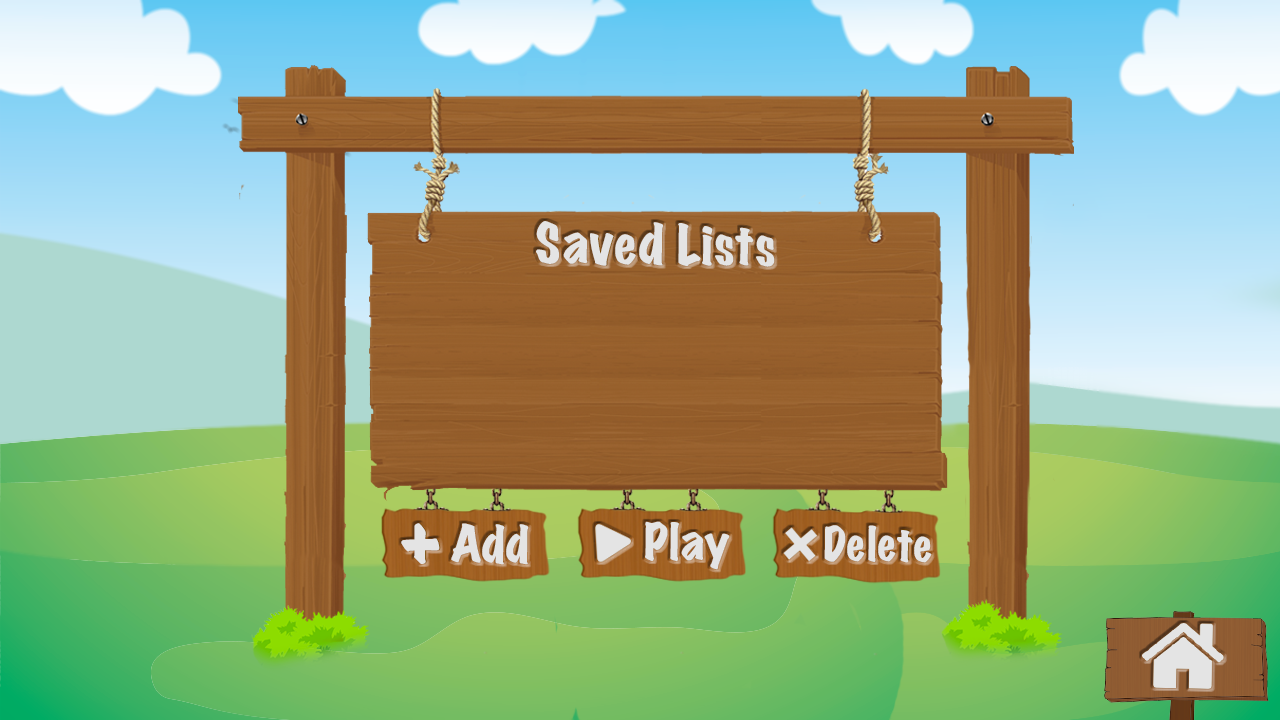
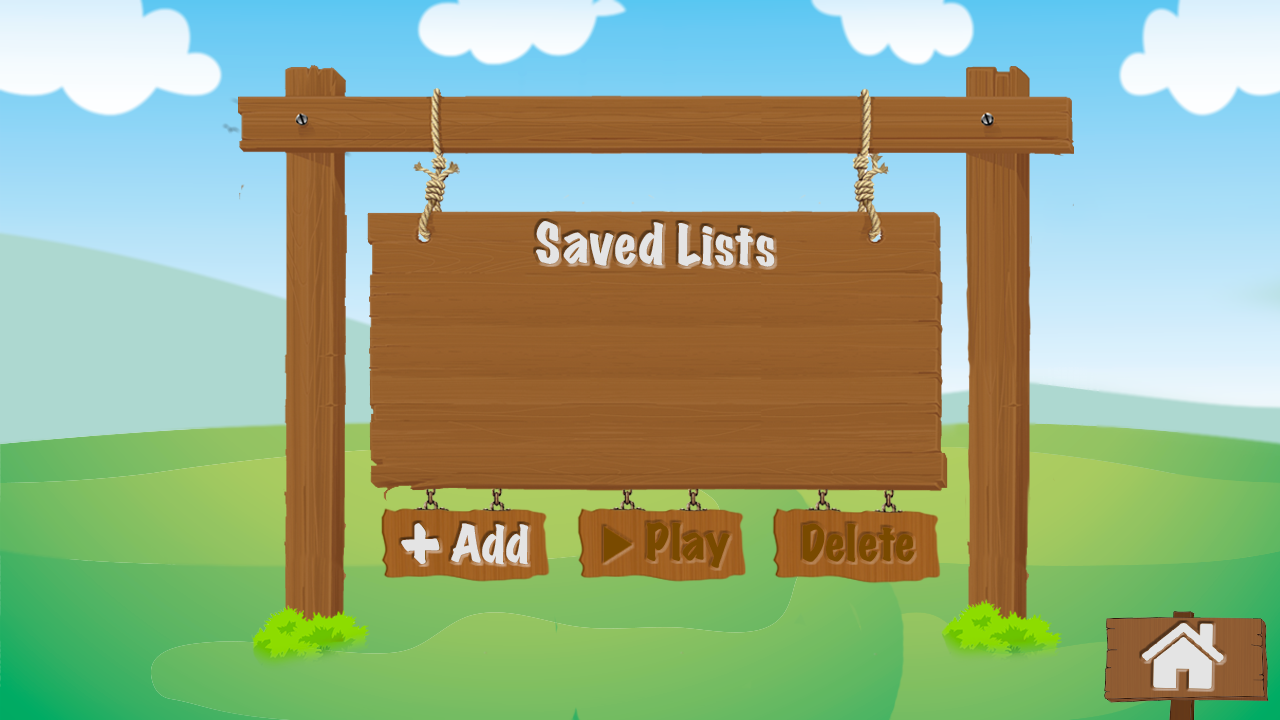
disabled property for buttons syncing with labels

Changed region(s): [[0.4375, 0.7028, 0.75, 0.7944]]

diff --git a/resources/stylesheets/AreYouSurePopupStyle.css b/resources/stylesheets/AreYouSurePopupStyle.css
@@ -1,0 +1,16 @@
+AnchorPane {
+    -fx-background-image:url('../images/AreYouSurePopup.png');
+}
+
+
+Button {
+    -fx-background-color: Transparent;
+    -fx-background-radius: 22;
+    -fx-border-color: Transparent;
+    -fx-border-width: 2;
+    -fx-border-radius: 22;
+}
+
+Button:hover {
+    -fx-border-color: #e4e4e4;
+}

diff --git a/resources/stylesheets/SkipPopupStyle.css b/resources/stylesheets/SkipPopupStyle.css
@@ -1,0 +1,16 @@
+AnchorPane {
+    -fx-background-image:url('../images/SkipPopup.png');
+}
+
+
+Button {
+    -fx-background-color: Transparent;
+    -fx-background-radius: 22;
+    -fx-border-color: Transparent;
+    -fx-border-width: 2;
+    -fx-border-radius: 22;
+}
+
+Button:hover {
+    -fx-border-color: #e4e4e4;
+}

diff --git a/resources/stylesheets/MainContainerStyle.css b/resources/stylesheets/MainContainerStyle.css
@@ -7,5 +7,3 @@
     opacity: 0.9
 }
 
-
-}

diff --git a/src/controller/QuestionViewController.java b/src/controller/QuestionViewController.java
@@ -1,5 +1,6 @@
 package controller;
 
+import de.jensd.fx.glyphs.materialdesignicons.MaterialDesignIconView;
 import javafx.concurrent.Task;
 import javafx.concurrent.WorkerStateEvent;
 import javafx.fxml.FXML;
@@ -50,9 +51,21 @@ public class QuestionViewController extends AbstractController implements Initia
     @FXML
     Button skipQuestionBtn;
     @FXML
+    Button menuBtn;
+    @FXML
     Label scoreLbl;
     @FXML
     Label attemptLbl;
+    @FXML
+    Label recordLbl;
+    @FXML
+    Label skipLbl;
+    @FXML
+    MaterialDesignIconView recordIcon;
+    @FXML
+    MaterialDesignIconView skipIcon;
+    @FXML
+    MaterialDesignIconView homeIcon;
 
     @Override
     public void initialize(URL location, ResourceBundle resources) {
@@ -74,9 +87,13 @@ public class QuestionViewController extends AbstractController implements Initia
             _questionMap = _pracModel.getCurrentQuestionMap();
             _answerMap = _pracModel.getCurrentAnswerMap();
         }
-        numberLbl.setText(_questionMap.get(_iteration));
 
-        //setFonts(numberLbl, 76, scoreLbl, 34, attemptLbl, 34, new Label(), 1, 3);
+        numberLbl.setText(_questionMap.get(_iteration));
+        recordLbl.visibleProperty().bind(recordBtn.disabledProperty().not());
+        skipLbl.visibleProperty().bind(skipQuestionBtn.disabledProperty().not());
+        recordIcon.visibleProperty().bind(recordBtn.disabledProperty().not());
+        skipIcon.visibleProperty().bind(skipQuestionBtn.disabledProperty().not());
+
     }
 
     // Returns to main menu when button is pressed.
@@ -105,6 +122,7 @@ public class QuestionViewController extends AbstractController implements Initia
 
     // Carries out calls to skip the current questions and move onto next
     public void skipQuestion() {
+        /*
         Alert alert = new Alert(Alert.AlertType.CONFIRMATION);
         alert.setTitle("Are you sure?");
         alert.setContentText("Are you sure you want to skip the current question?");
@@ -125,6 +143,13 @@ public class QuestionViewController extends AbstractController implements Initia
                 //NEEDS LOGIC FOR NEXT ITERATION
             }
 
+        } */
+        FXMLLoader loader = new FXMLLoader(getClass().getResource(File.separator + "view" + File.separator + "SkipPopup.fxml"));
+        loader.setController(new SkipPopupController(_iteration, _numQuestions, _score, this));
+        try {
+            pushPopup(new Scene(loader.load()), true);
+        } catch (IOException e) {
+            e.printStackTrace();
         }
     }
 
@@ -263,7 +288,7 @@ public class QuestionViewController extends AbstractController implements Initia
         }
     }
 
-    private void nextQuestion() {
+    protected void nextQuestion() {
         _iteration+=1;
         _modeDirector.setIteration(_iteration);
         numberLbl.setText(_questionMap.get(_iteration));
@@ -271,7 +296,7 @@ public class QuestionViewController extends AbstractController implements Initia
         _attempt = 1;
     }
 
-    private void resetBtns() {
+    protected void resetBtns() {
         if (_attempt > 2) {
             nextQuestion();
         }
@@ -283,9 +308,12 @@ public class QuestionViewController extends AbstractController implements Initia
     }
 
     public void mainMenu() {
-        pushChild("MenuView");
+        try {
+            pushPopup(new Scene(FXMLLoader.load(getClass().getResource(File.separator + "view" + File.separator + "AreYouSurePopup.fxml"))), true);
+        } catch (IOException e) {
+            e.printStackTrace();
+        }
     }
-
 
     //Helper method to playback audio once they have finished recording
     private void playbackAudio() {

diff --git a/src/controller/CustomViewController.java b/src/controller/CustomViewController.java
@@ -1,14 +1,12 @@
 package controller;
 
 import com.sun.javafx.scene.control.skin.VirtualFlow;
+import de.jensd.fx.glyphs.materialdesignicons.MaterialDesignIconView;
 import javafx.fxml.FXML;
 import javafx.fxml.FXMLLoader;
 import javafx.fxml.Initializable;
 import javafx.scene.Scene;
-import javafx.scene.control.Button;
-import javafx.scene.control.Cell;
-import javafx.scene.control.ListCell;
-import javafx.scene.control.ListView;
+import javafx.scene.control.*;
 import javafx.scene.text.Font;
 import model.CustomCollection;
 import model.ModeDirector;
@@ -30,13 +28,23 @@ public class CustomViewController extends AbstractController implements Initiali
     Button playBtn;
     @FXML
     Button deleteBtn;
+    @FXML
+    Label playLbl;
+    @FXML
+    Label deleteLbl;
+    @FXML
+    MaterialDesignIconView playIcon;
 
     public void addQuestions() {
         pushChild("CustomAddView");
     }
 
     public void mainMenu() {
-        pushChild("MenuView");
+        try {
+            pushPopup(new Scene(FXMLLoader.load(getClass().getResource(File.separator + "view" + File.separator + "AreYouSurePopup.fxml"))), true);
+        } catch (IOException e) {
+            e.printStackTrace();
+        }
     }
 
     public void play() {
@@ -73,6 +81,9 @@ public class CustomViewController extends AbstractController implements Initiali
 
         playBtn.setDisable(true);
         deleteBtn.setDisable(true);
+        playLbl.visibleProperty().bind(playBtn.disabledProperty().not());
+        deleteLbl.visibleProperty().bind(deleteBtn.disabledProperty().not());
+        playIcon.visibleProperty().bind(playBtn.disabledProperty().not());
 
         customizeListView(listView);
     }

diff --git a/src/controller/WrongViewController.java b/src/controller/WrongViewController.java
@@ -3,11 +3,15 @@ package controller;
 import de.jensd.fx.glyphs.materialdesignicons.MaterialDesignIcon;
 import de.jensd.fx.glyphs.materialdesignicons.MaterialDesignIconView;
 import javafx.fxml.FXML;
+import javafx.fxml.FXMLLoader;
 import javafx.fxml.Initializable;
+import javafx.scene.Scene;
 import javafx.scene.control.Button;
 import javafx.scene.control.Label;
 import model.ModeDirector;
 
+import java.io.File;
+import java.io.IOException;
 import java.net.URL;
 import java.util.ResourceBundle;
 
@@ -41,7 +45,11 @@ public class WrongViewController extends AbstractController implements Initializ
     }
 
     public void mainMenu() {
-        pushChild("MenuView");
+        try {
+            pushPopup(new Scene(FXMLLoader.load(getClass().getResource(File.separator + "view" + File.separator + "AreYouSurePopup.fxml"))), true);
+        } catch (IOException e) {
+            e.printStackTrace();
+        }
     }
 
     @Override

diff --git a/src/controller/SkipPopupController.java b/src/controller/SkipPopupController.java
@@ -1,0 +1,33 @@
+package controller;
+
+import model.ModeDirector;
+
+public class SkipPopupController extends AbstractController  {
+    private static ModeDirector _modeDirector = ModeDirector.instance();
+    private static QuestionViewController _qvc;
+    private int _iteration;
+    private int _numQuestions;
+    private int _score;
+
+    public SkipPopupController(int iteration, int numQuestions, int score, QuestionViewController qvc) {
+        _iteration = iteration;
+        _numQuestions = numQuestions;
+        _score = score;
+        _qvc = qvc;
+    }
+
+    public void skip() {
+        if (_iteration > _numQuestions) {
+            _modeDirector.updateStats(_score, _iteration);
+            pushChild("SummaryView");
+        } else {
+            _qvc.nextQuestion();
+            _qvc.resetBtns();
+        }
+        closePopup();
+    }
+
+    public void cancel() {
+        closePopup();
+    }
+}

diff --git a/src/controller/CorrectViewController.java b/src/controller/CorrectViewController.java
@@ -3,11 +3,15 @@ package controller;
 
 import de.jensd.fx.glyphs.materialdesignicons.MaterialDesignIconView;
 import javafx.fxml.FXML;
+import javafx.fxml.FXMLLoader;
 import javafx.fxml.Initializable;
+import javafx.scene.Scene;
 import javafx.scene.control.Button;
 import javafx.scene.control.Label;
 import model.ModeDirector;
 
+import java.io.File;
+import java.io.IOException;
 import java.net.URL;
 import java.util.ResourceBundle;
 
@@ -35,7 +39,11 @@ public class CorrectViewController extends AbstractController implements Initial
     }
 
     public void mainMenu() {
-        pushChild("MenuView");
+        try {
+            pushPopup(new Scene(FXMLLoader.load(getClass().getResource(File.separator + "view" + File.separator + "AreYouSurePopup.fxml"))), true);
+        } catch (IOException e) {
+            e.printStackTrace();
+        }
     }
 
     @Override

diff --git a/src/controller/PracticeViewController.java b/src/controller/PracticeViewController.java
@@ -1,10 +1,14 @@
 package controller;
 
+import javafx.fxml.FXMLLoader;
 import javafx.fxml.Initializable;
+import javafx.scene.Scene;
 import model.ModeDirector;
 import model.NumberCollection;
 import model.PracticeCollection;
 
+import java.io.File;
+import java.io.IOException;
 import java.net.URL;
 import java.util.ResourceBundle;
 
@@ -28,9 +32,12 @@ public class PracticeViewController extends AbstractController implements Initia
     }
 
     public void mainMenu() {
-        pushChild("MenuView");
+        try {
+            pushPopup(new Scene(FXMLLoader.load(getClass().getResource(File.separator + "view" + File.separator + "AreYouSurePopup.fxml"))), true);
+        } catch (IOException e) {
+            e.printStackTrace();
+        }
     }
-
 
     @Override
     public void initialize(URL location, ResourceBundle resources) {

diff --git a/src/controller/MathViewController.java b/src/controller/MathViewController.java
@@ -1,8 +1,13 @@
 package controller;
 
+import javafx.fxml.FXMLLoader;
+import javafx.scene.Scene;
 import model.MathsCollection;
 import model.ModeDirector;
 import model.NumberCollection;
+
+import java.io.File;
+import java.io.IOException;
 
 public class MathViewController extends AbstractController{
     private static ModeDirector _modeDirector = ModeDirector.instance();
@@ -50,7 +55,11 @@ public class MathViewController extends AbstractController{
     }
 
     public void mainMenu() {
-        pushChild("MenuView");
+        try {
+            pushPopup(new Scene(FXMLLoader.load(getClass().getResource(File.separator + "view" + File.separator + "AreYouSurePopup.fxml"))), true);
+        } catch (IOException e) {
+            e.printStackTrace();
+        }
     }
 
     public void stats() {

diff --git a/src/controller/CustomAddViewController.java b/src/controller/CustomAddViewController.java
@@ -360,7 +360,11 @@ public class CustomAddViewController extends AbstractController implements Initi
     }
 
     public void mainMenu() {
-        pushChild("MenuView");
+        try {
+            pushPopup(new Scene(FXMLLoader.load(getClass().getResource(File.separator + "view" + File.separator + "AreYouSurePopup.fxml"))), true);
+        } catch (IOException e) {
+            e.printStackTrace();
+        }
     }
 
     private void numberBtnCtrl(boolean option) {

diff --git a/src/controller/AreYouSurePopupController.java b/src/controller/AreYouSurePopupController.java
@@ -1,0 +1,16 @@
+package controller;
+
+import javafx.collections.ObservableList;
+import model.CustomCollection;
+
+public class AreYouSurePopupController extends AbstractController  {
+
+    public void home() {
+        closePopup();
+        pushChild("MenuView");
+    }
+
+    public void cancel() {
+        closePopup();
+    }
+}
